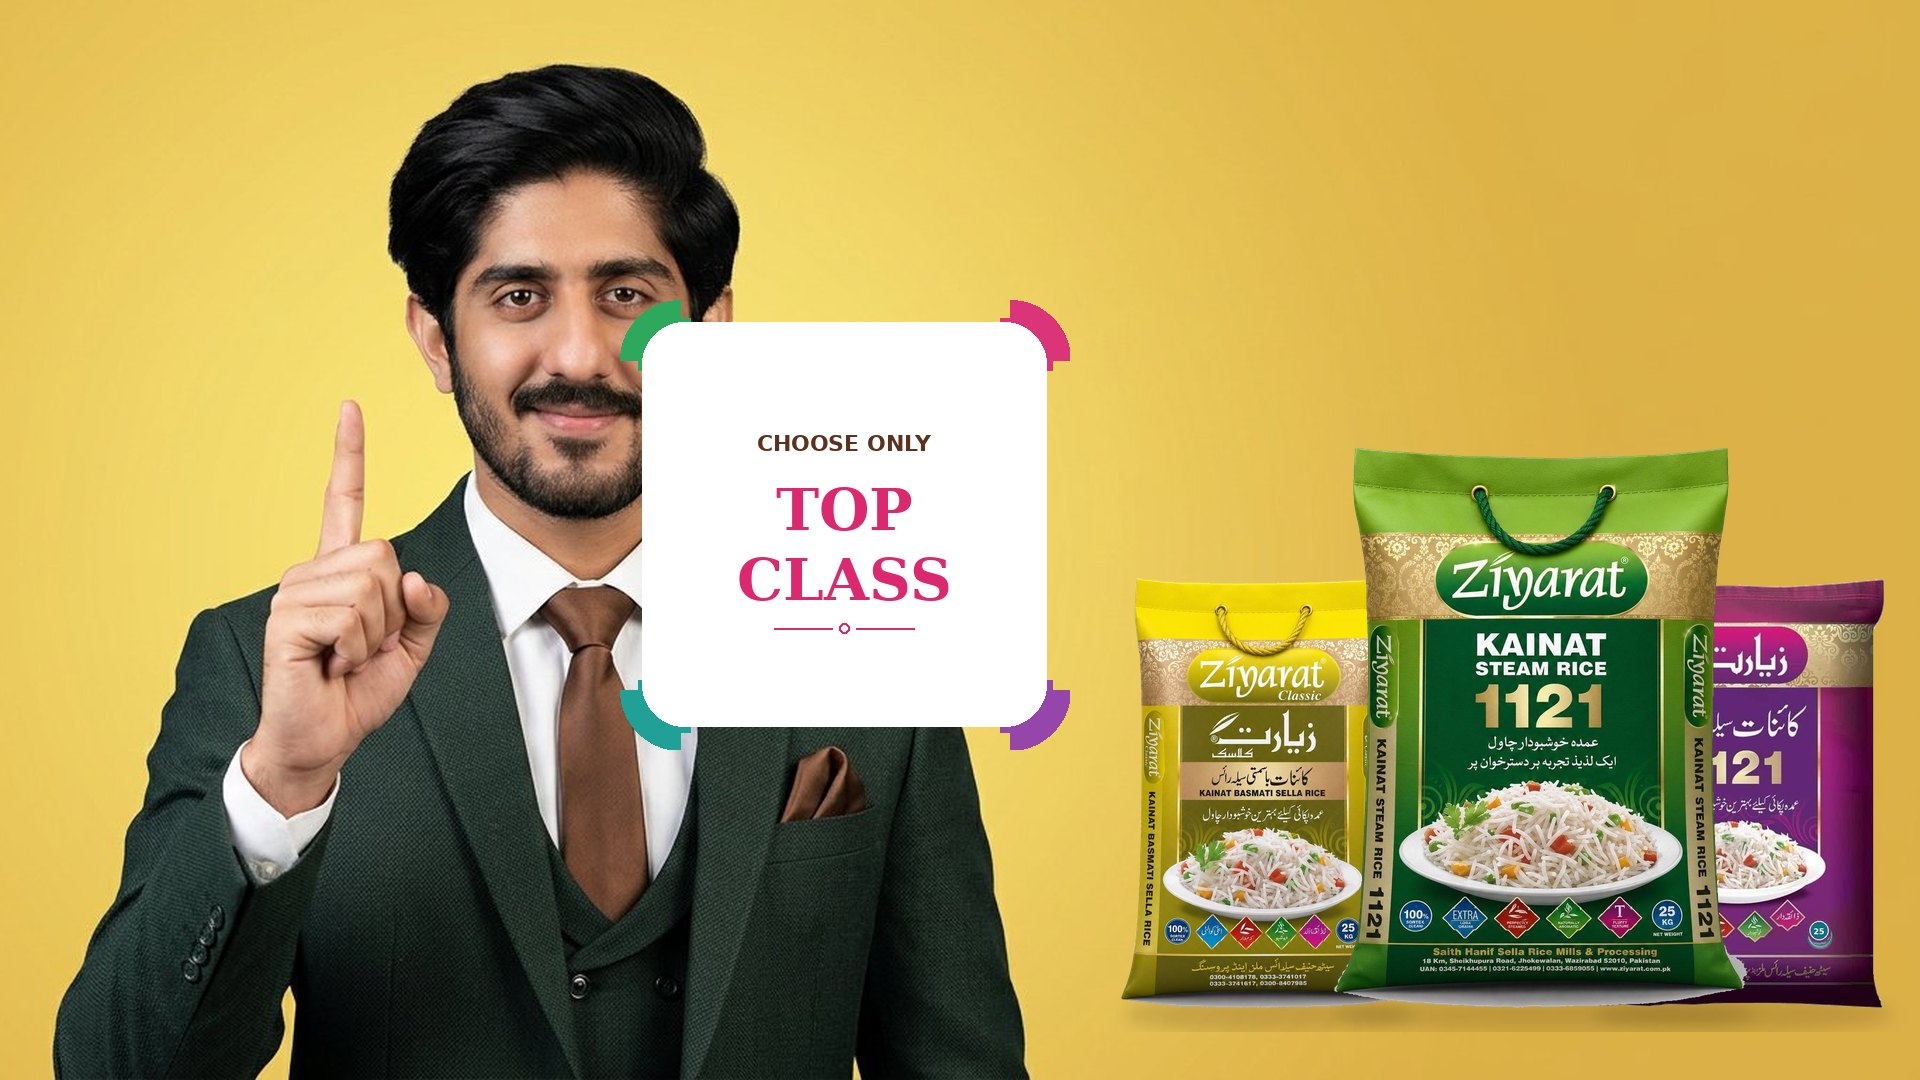
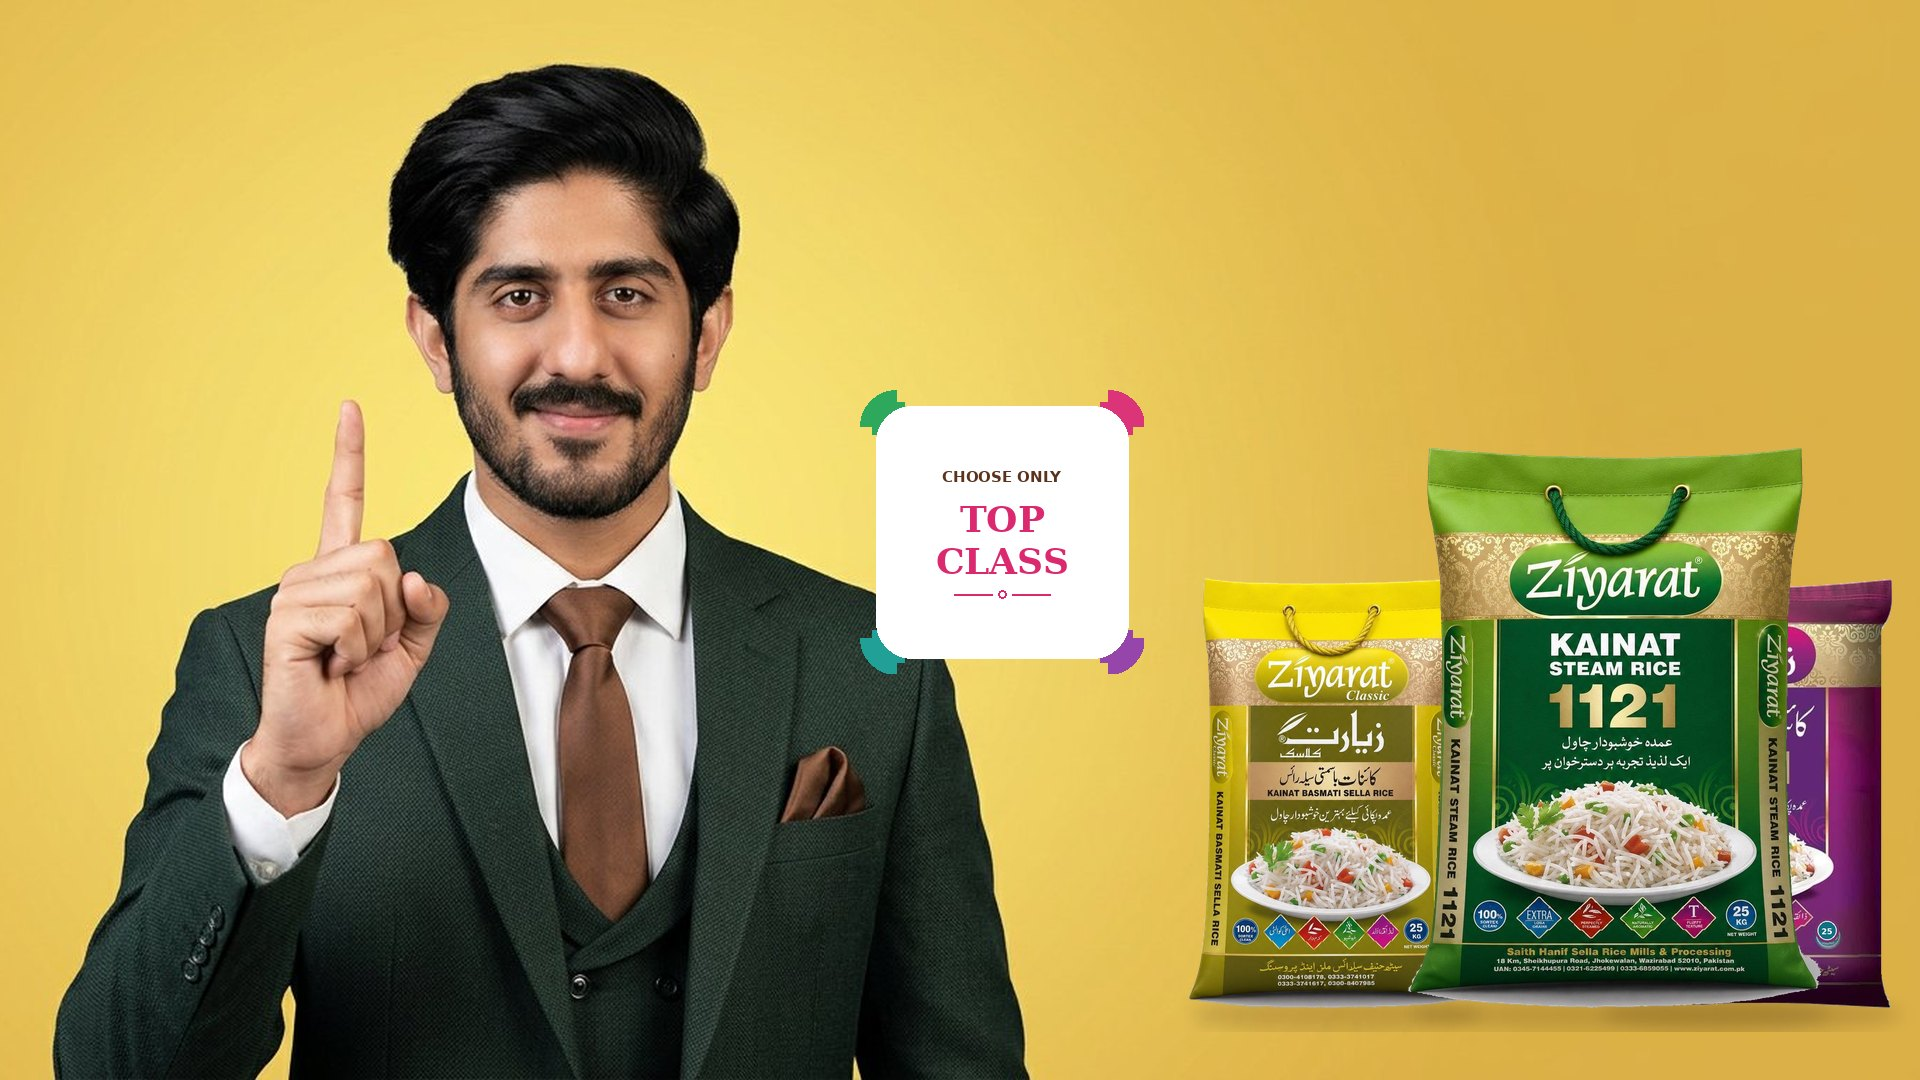
Products hero: smaller Top Class badge, clear of the face.
Badge sits in the gap between the portrait and the mill packs.

Changed region(s): [[0.3125, 0.275, 1.0, 0.9472]]

diff --git a/products.html b/products.html
@@ -56,7 +56,7 @@
 
     <section class="hero page-hero products-campaign">
       <div class="hero-media">
-        <img src="assets/images/hero-products-campaign.jpg?v=1" alt="Choose only top class — Ziyarat rice from Saith Hanif Rice Mills" width="1920" height="1080" fetchpriority="high" decoding="async">
+        <img src="assets/images/hero-products-campaign.jpg?v=2" alt="Choose only top class — Ziyarat rice from Saith Hanif Rice Mills" width="1920" height="1080" fetchpriority="high" decoding="async">
       </div>
       <div class="hero-content">
         <h1 class="visually-hidden">Rice products from Jhabran</h1>
